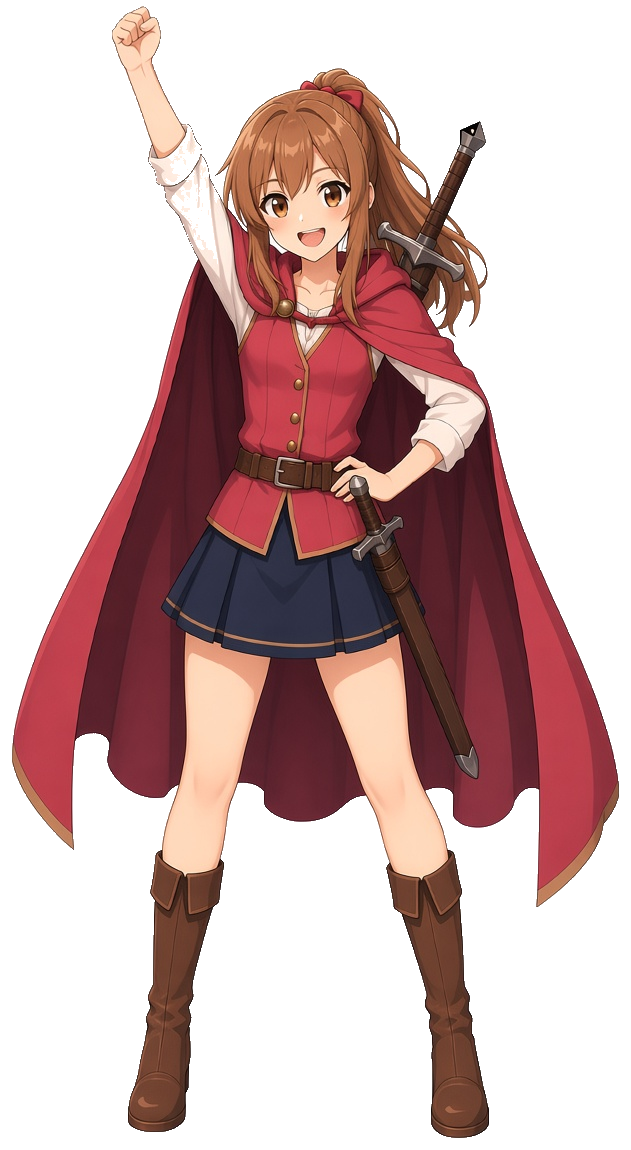
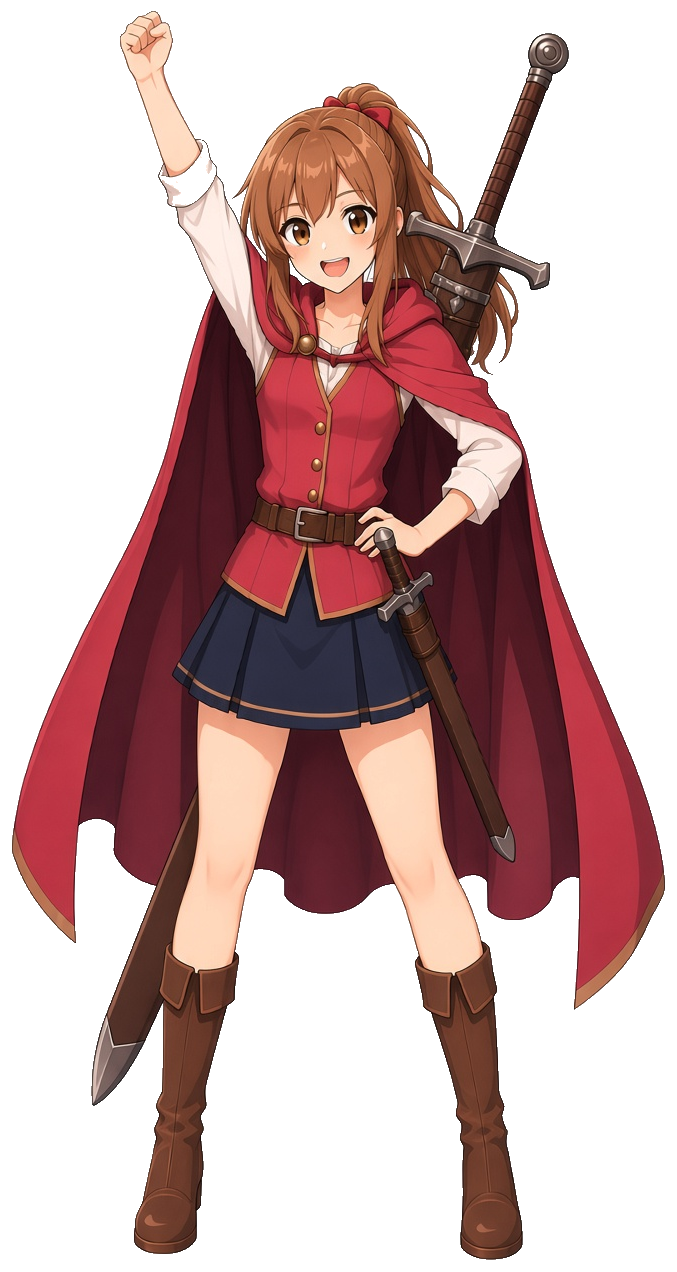
Art: longer cooler battle sword (male), big back sword with visible scabbard tip (girl front/victory)

diff --git a/index.html b/index.html
@@ -2759,8 +2759,8 @@
     let castLock = "戦士";
     let castShown = "";
     const CAST = [
-      { name: "戦士", stand: "job-front.png?v=5", chibi: "job-warrior.png?v=8", action: "job-action.jpg?v=3", battle: "hero-shoulder.png?v=24", battleRatio: "864 / 1152" },
-      { name: "女の戦士", stand: "girl-front.png?v=6", chibi: "job-girl.png?v=1", action: "girl-action.jpg?v=1", battle: "girl-battle.png?v=8", battleRatio: "863 / 1147" },
+      { name: "戦士", stand: "job-front.png?v=5", chibi: "job-warrior.png?v=8", action: "job-action.jpg?v=3", battle: "hero-shoulder.png?v=25", battleRatio: "864 / 1152" },
+      { name: "女の戦士", stand: "girl-front.png?v=7", chibi: "job-girl.png?v=1", action: "girl-action.jpg?v=1", battle: "girl-battle.png?v=8", battleRatio: "863 / 1147" },
     ];
     let heroCast = "戦士";
     function heroItem() { return castByName(heroCast); }
@@ -4655,19 +4655,19 @@
             <h3>戦士</h3>
             <div class="ref-grid pose-grid">
               <figure><img class="cut-ref" src="job-front.png?v=5" alt="戦士の正面"><figcaption>正面</figcaption></figure>
-              <figure><img class="cut-ref" src="hero-shoulder.png?v=24" alt="戦士の戦闘（ポケモンの画角）"><figcaption>戦闘（ポケモンの画角）</figcaption></figure>
+              <figure><img class="cut-ref" src="hero-shoulder.png?v=25" alt="戦士の戦闘（ポケモンの画角）"><figcaption>戦闘（ポケモンの画角）</figcaption></figure>
               <figure><img class="cut-ref" src="warrior-defeat.png?v=3" alt="戦士の敗北"><figcaption>敗北</figcaption></figure>
               <figure><img class="cut-ref" src="warrior-victory.png?v=3" alt="戦士の勝利"><figcaption>勝利</figcaption></figure>
             </div>
-            <p class="sheet-cap">向きごとに別の絵。正面は、ジョブの一枚絵を基準にした。大剣の鞘は左肩から。戦闘では背中を向け、目線は敵。左手の先は盾と体で隠す。戦闘ではショートソードを出さない。敗北は剣が折れて絶望。勝利は盾を持たない。</p>
+            <p class="sheet-cap">向きごとに別の絵。正面は、ジョブの一枚絵を基準にした。大剣の鞘は左肩から。戦闘のロングソードは正面の長さに合わせて長く（刃は体の高さの半分ほど、切っ先は頭の高さ）。刃は青みの鋼で深い樋、金の鍔、革巻きの柄。戦闘では背中を向け、目線は敵。左手の先は盾と体で隠す。戦闘ではショートソードを出さない。敗北は剣が折れて絶望。勝利は盾を持たない。</p>
             <h3>女の戦士</h3>
             <div class="ref-grid pose-grid">
-              <figure><img class="cut-ref" src="girl-front.png?v=6" alt="女の戦士の正面"><figcaption>正面</figcaption></figure>
+              <figure><img class="cut-ref" src="girl-front.png?v=7" alt="女の戦士の正面"><figcaption>正面</figcaption></figure>
               <figure><img class="cut-ref" src="girl-battle.png?v=8" alt="女の戦士の戦闘（ポケモンの画角）"><figcaption>戦闘（ポケモンの画角）</figcaption></figure>
               <figure><img class="cut-ref" src="girl-defeat.png?v=6" alt="女の戦士の敗北"><figcaption>敗北</figcaption></figure>
-              <figure><img class="cut-ref" src="girl-victory.png?v=6" alt="女の戦士の勝利"><figcaption>勝利</figcaption></figure>
+              <figure><img class="cut-ref" src="girl-victory.png?v=7" alt="女の戦士の勝利"><figcaption>勝利</figcaption></figure>
             </div>
-            <p class="sheet-cap">向きごとに別の絵。スタイルは良く、露出は増やさない。大剣の鞘は左肩から。戦闘では背中を向け、目線は敵。左手の先は盾と体で隠す。戦闘ではショートソードを出さない。敗北は座り込んで泣き、服が破れる。初期ジョブ選択で選べる。選ぶと、戦闘の絵と名前が女の戦士になる。</p>
+            <p class="sheet-cap">向きごとに別の絵。スタイルは良く、露出は増やさない。大剣の鞘は左肩から。背中の大剣は男の戦士と同じ大きさで、柄は頭より高く、鞘の先は左の脛の横に見える（正面・勝利）。戦闘では背中を向け、目線は敵。左手の先は盾と体で隠す。戦闘ではショートソードを出さない。敗北は座り込んで泣き、服が破れる。初期ジョブ選択で選べる。選ぶと、戦闘の絵と名前が女の戦士になる。</p>
             <img class="sheet-art" src="girl-action.jpg?v=1" alt="女の戦士の一枚絵。草原でお茶をしている">
             <p class="sheet-cap">女の戦士の一枚絵。草原でお茶をしている。顔と服は正面と同じ。</p>
             <h3>魔法使い</h3>
@@ -4689,7 +4689,7 @@
               <figure class="span-2"><img class="land-ref" src="job-action.jpg?v=3" alt=""><figcaption>戦士の一枚絵</figcaption></figure>
             </div>
             <div class="ref-grid">
-              <figure><img class="cut-ref" src="girl-front.png?v=6" alt=""><figcaption>女の戦士の立ち絵</figcaption></figure>
+              <figure><img class="cut-ref" src="girl-front.png?v=7" alt=""><figcaption>女の戦士の立ち絵</figcaption></figure>
               <figure class="span-2"><img class="land-ref" src="girl-action.jpg?v=1" alt=""><figcaption>女の戦士の一枚絵</figcaption></figure>
             </div>
             <div class="ref-grid">
@@ -4699,7 +4699,7 @@
             <p class="sheet-cap">初期ジョブ選択は、戦士と女の戦士。コマは横向きの小さな絵。選ぶと、立ち絵と一枚絵が切り替わり、戦闘の絵と名前もその戦士になる。</p>
             <h3>戦闘の絵</h3>
             <div class="ref-grid">
-              <figure><img class="cut-ref" src="hero-shoulder.png?v=24" alt=""><figcaption>戦闘の戦士</figcaption></figure>
+              <figure><img class="cut-ref" src="hero-shoulder.png?v=25" alt=""><figcaption>戦闘の戦士</figcaption></figure>
             </div>
             <h3>タイトル</h3>
             <img class="sheet-art" src="title-duo.jpg?v=1" alt="タイトル。戦士2人が背中合わせで協力している。">
